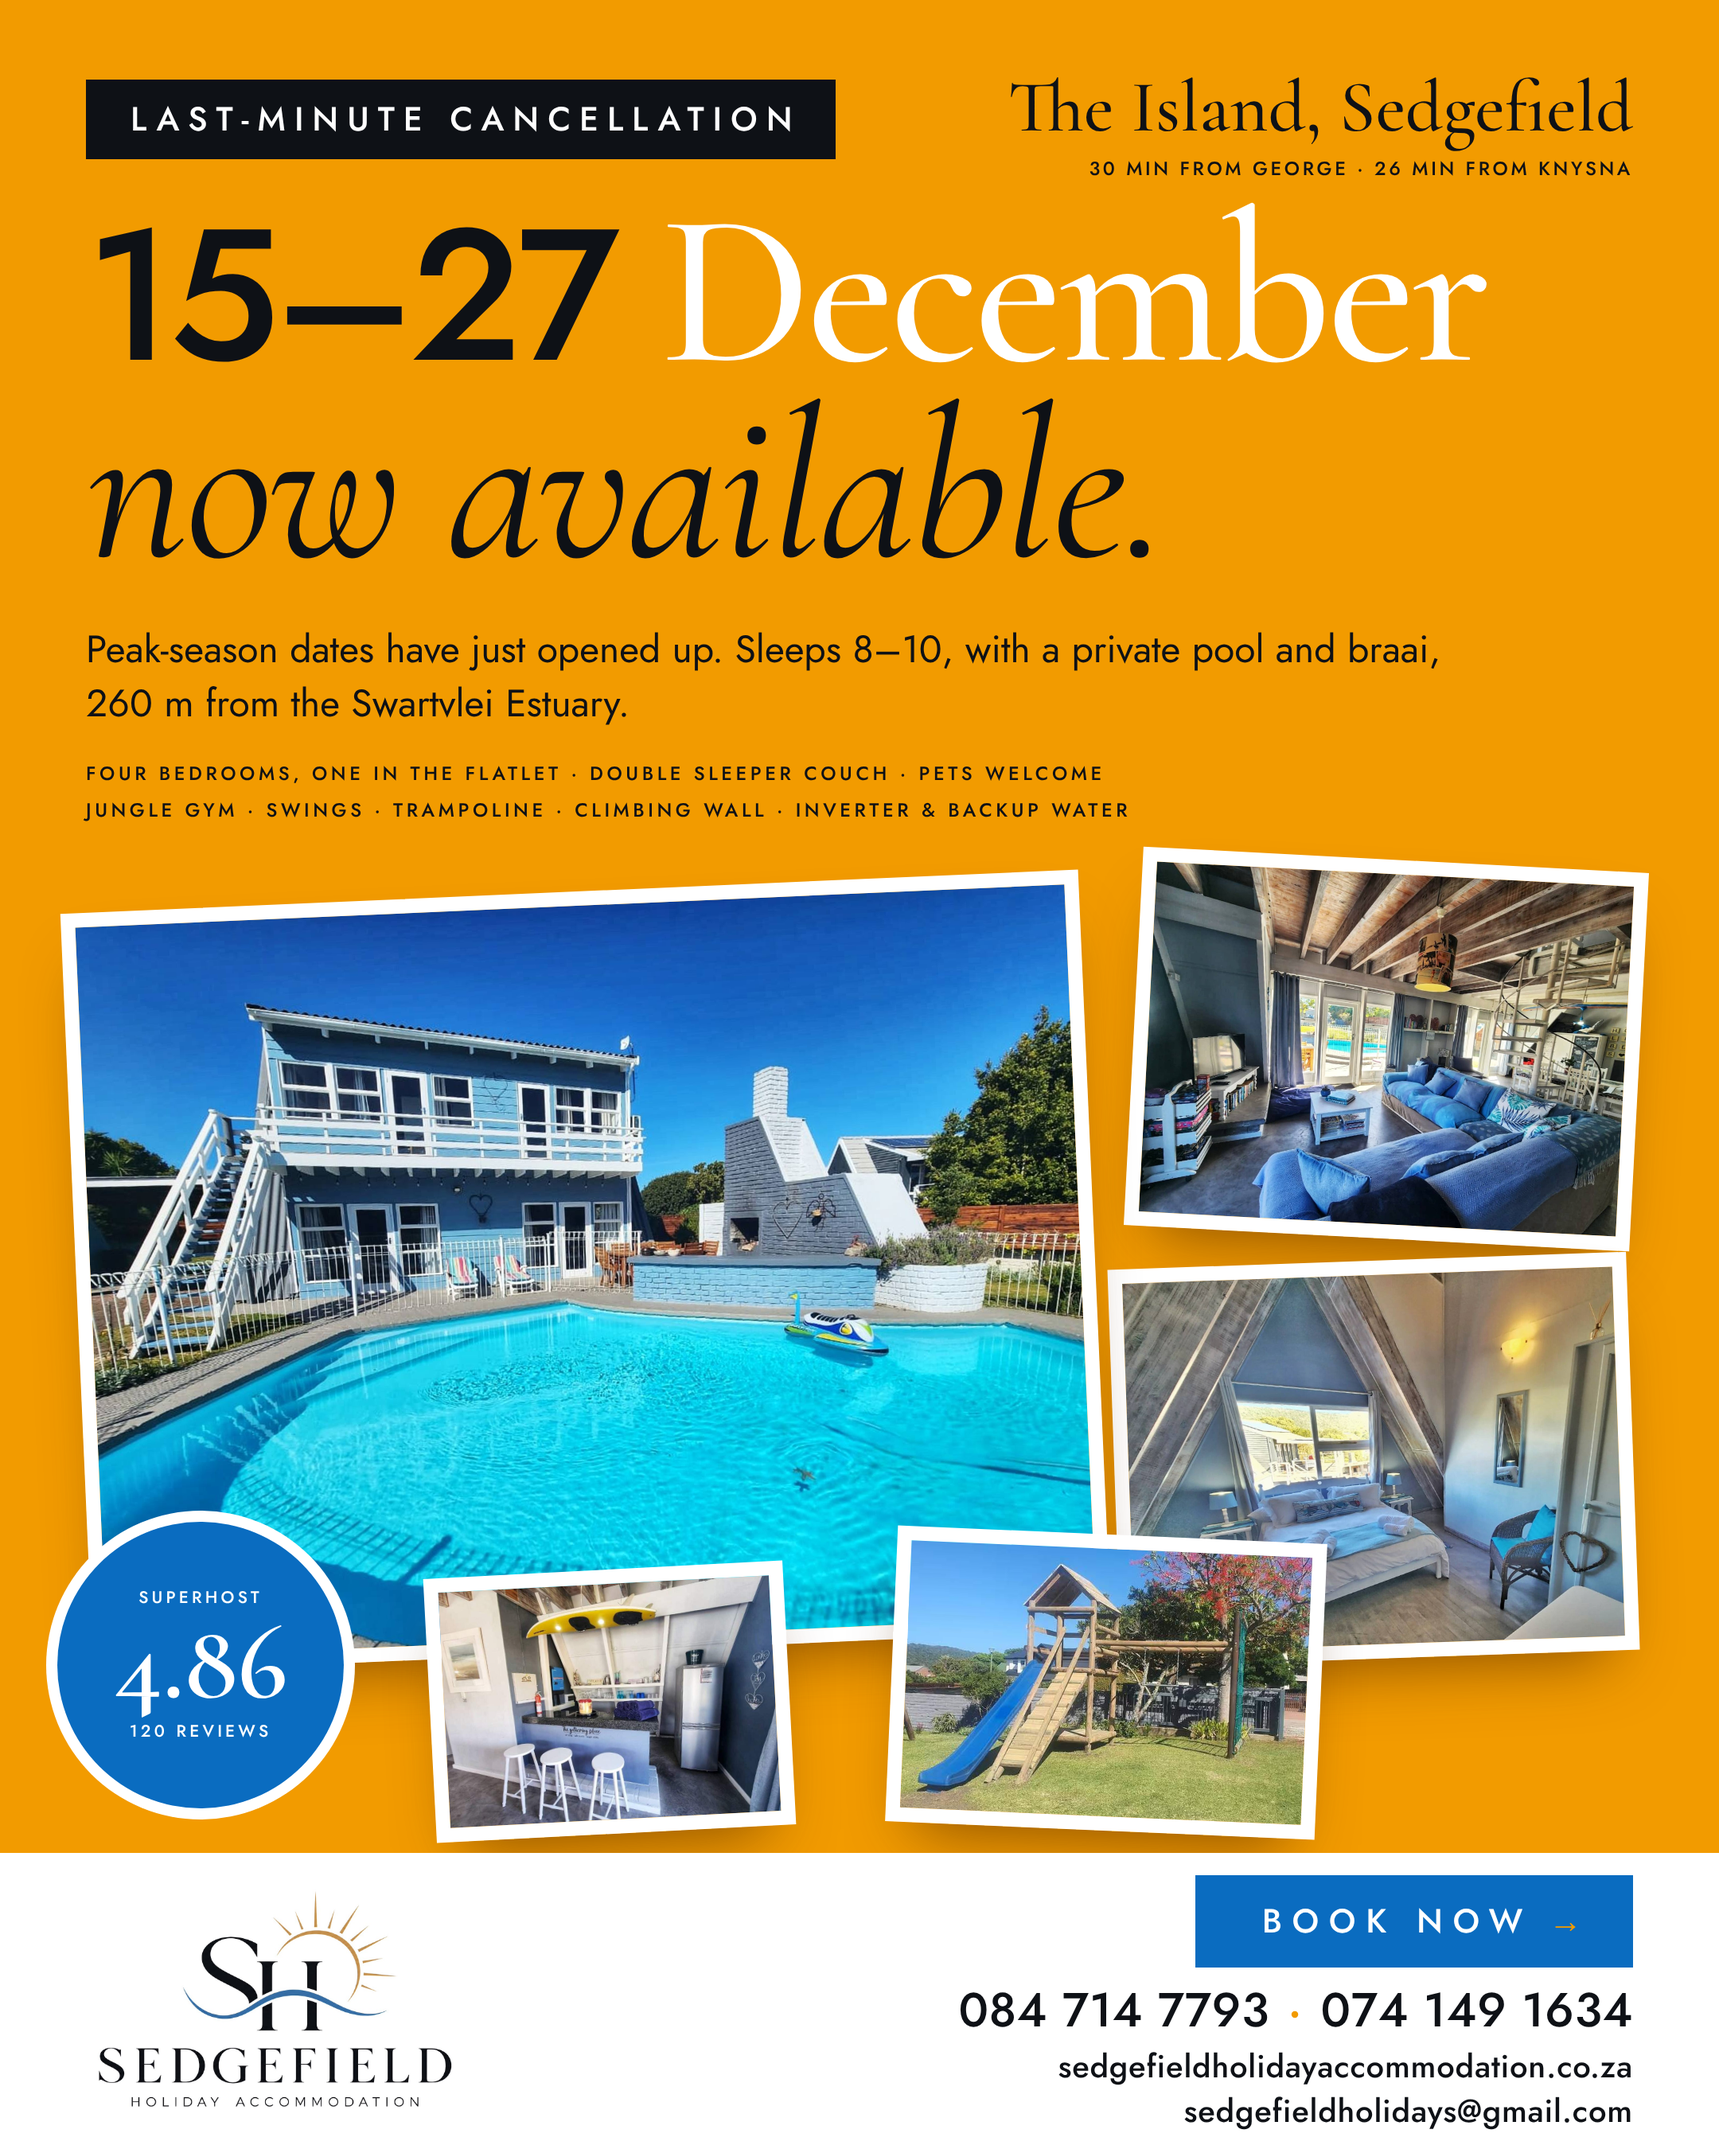
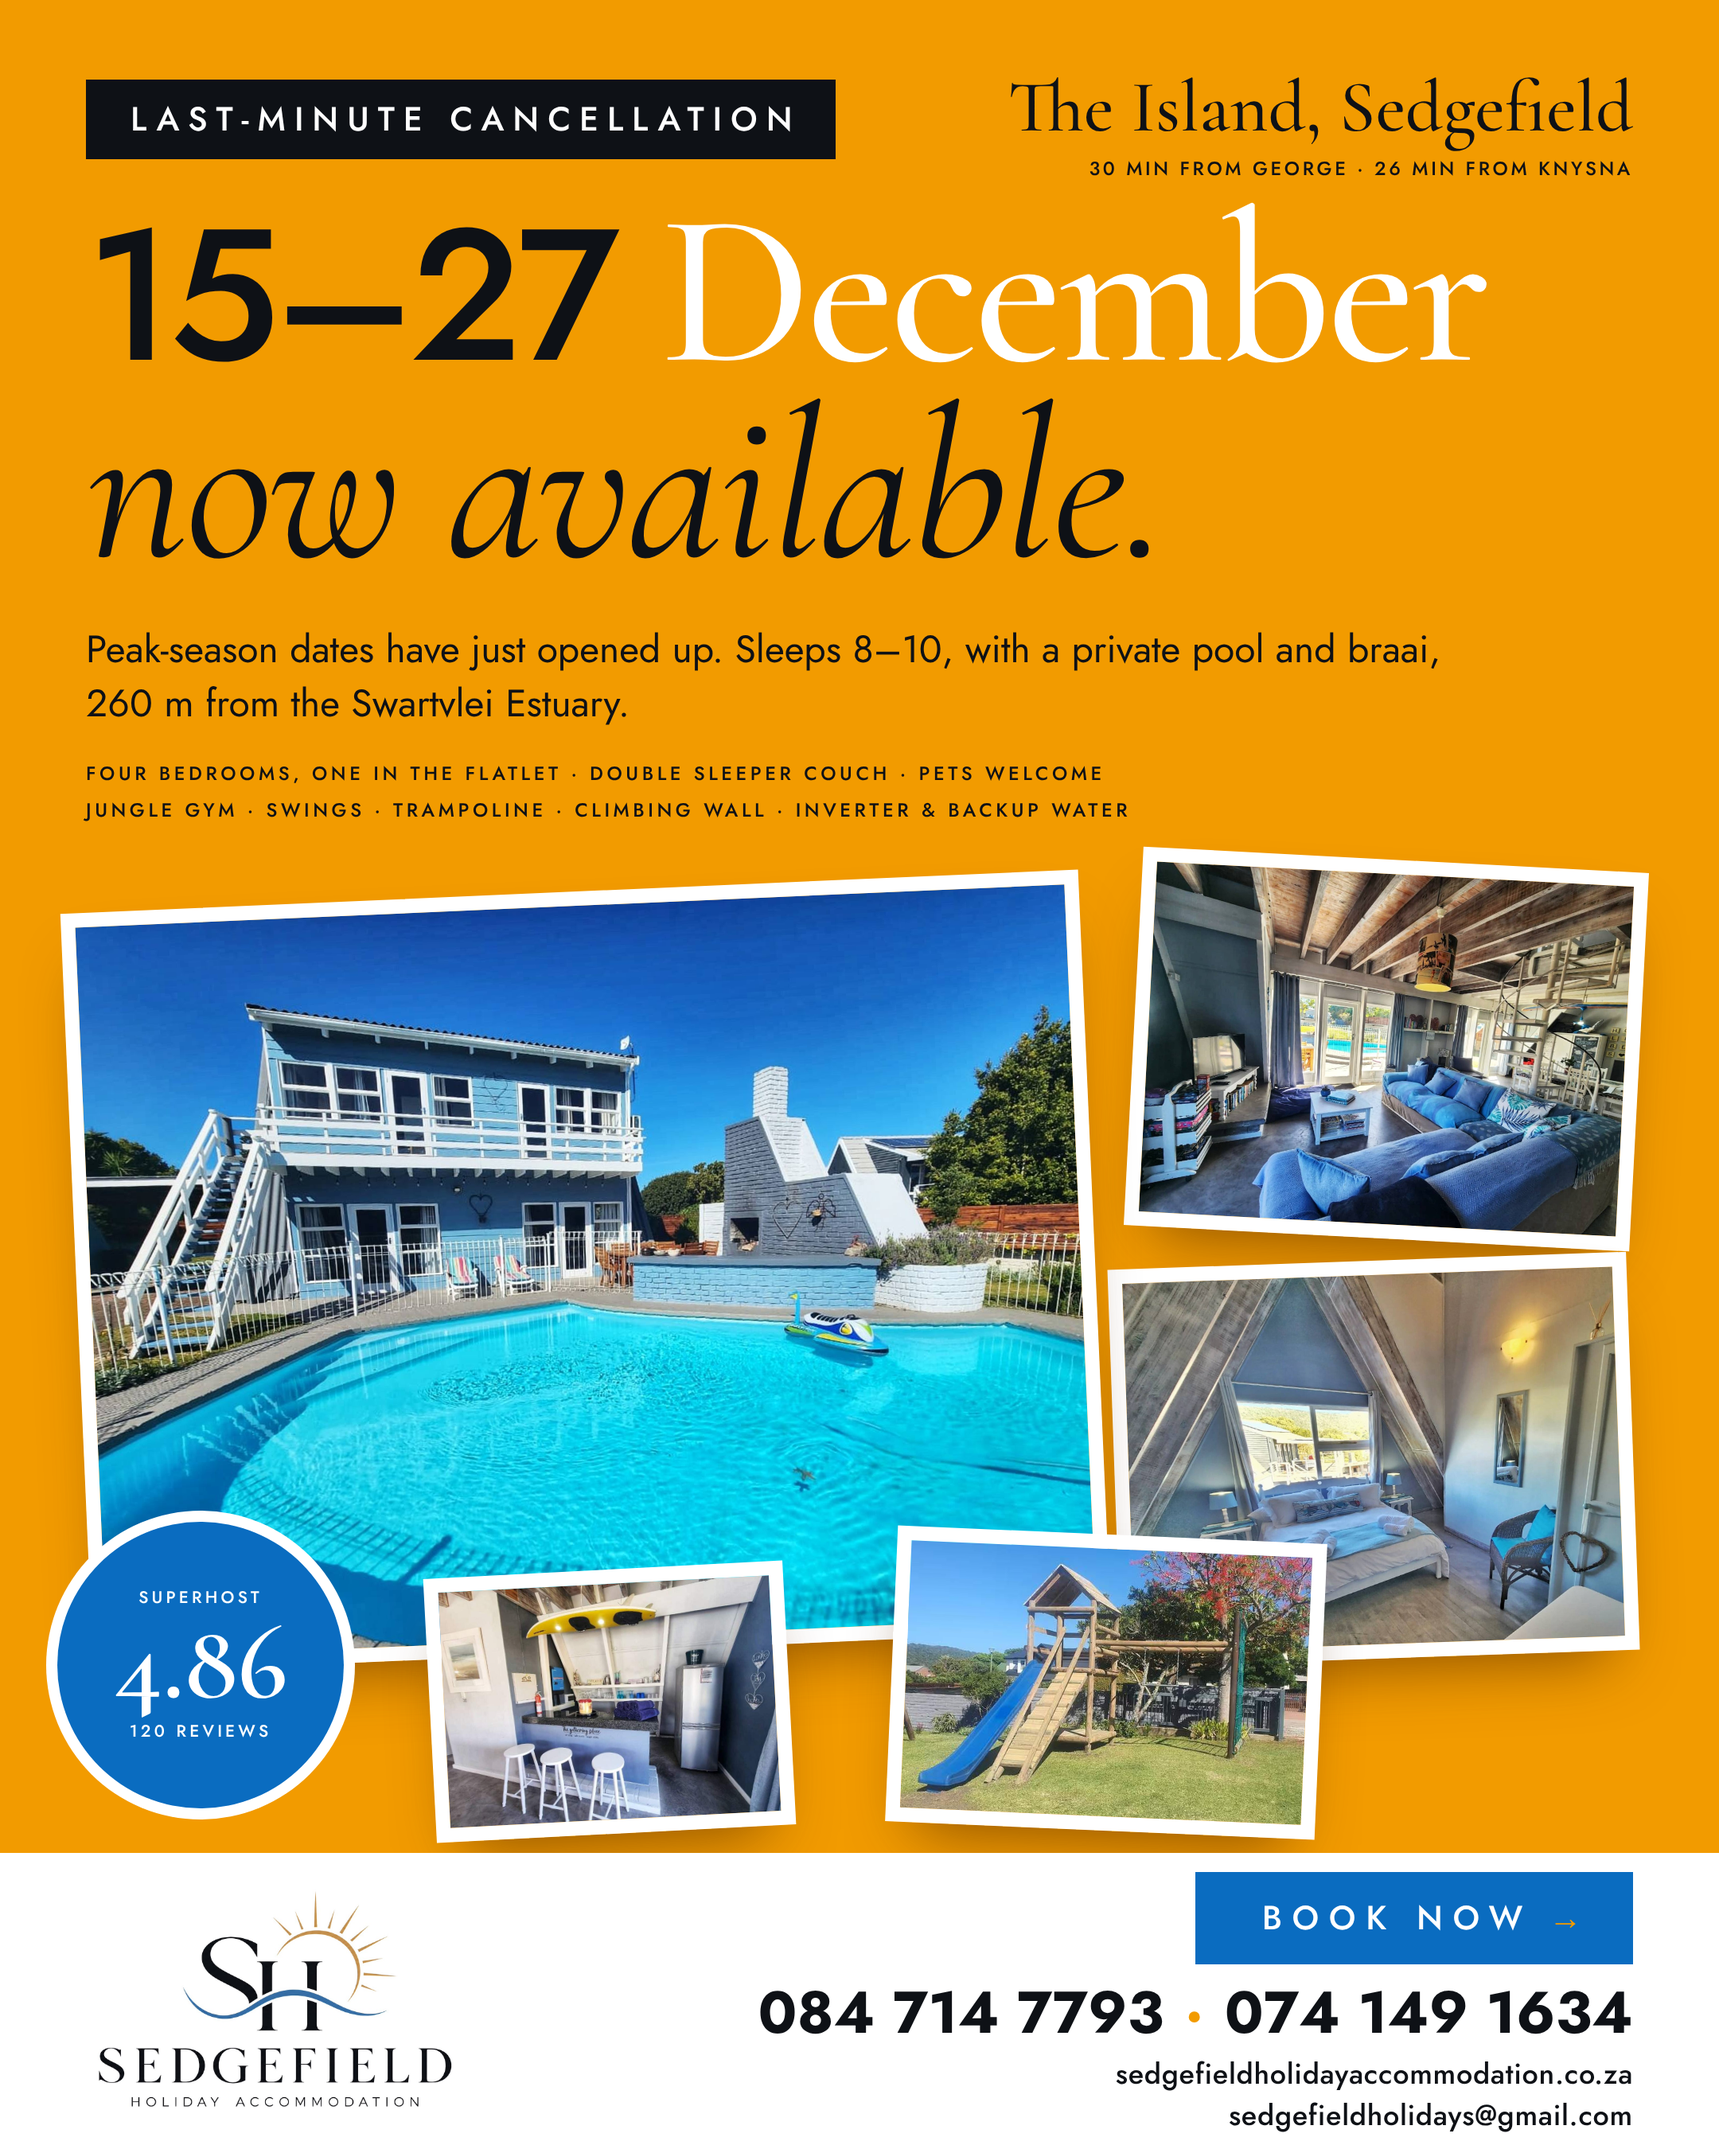
Adverts: cell numbers in bold at a larger size
Claude-Session: https://claude.ai/code/session_018nYbKAdgBCf6cy6bucxAdr

Changed region(s): [[0.4343, 0.8711, 0.9616, 0.9956]]

diff --git a/adverts/book-now/design-2-pool-photo-strip.html b/adverts/book-now/design-2-pool-photo-strip.html
@@ -7,6 +7,7 @@
 @font-face{font-family:Cormorant;font-weight:400;font-style:italic;src:url(assets/cormorant-garamond-latin-400-italic.woff2)}
 @font-face{font-family:Jost;font-weight:400;src:url(assets/jost-latin-400-normal.woff2)}
 @font-face{font-family:Jost;font-weight:500;src:url(assets/jost-latin-500-normal.woff2)}
+@font-face{font-family:Jost;font-weight:700;src:url(assets/jost-latin-700-normal.woff2)}
 :root{--ink:#0E1116;--blue:#0A6CC0;--orange:#F29B00}
 *{box-sizing:border-box;margin:0;padding:0}
 body{background:#fff;color:var(--ink);font-family:Jost,Arial,sans-serif}
@@ -31,23 +32,23 @@ body{background:#fff;color:var(--ink);font-family:Jost,Arial,sans-serif}
 .tag{display:inline-block;background:var(--orange);color:var(--ink);font-size:21px;letter-spacing:.26em;padding:15px 20px 14px 26px;margin-bottom:24px}
 .kicker{display:flex;align-items:center;gap:14px;margin-bottom:18px;text-shadow:0 1px 10px #05386a80}
 .kicker i{display:block;width:44px;height:3px;background:var(--orange)}
-h1{font:500 132px/.9 Cormorant,Georgia,serif;letter-spacing:-.02em;white-space:nowrap;text-shadow:0 2px 30px #05386a55}
+h1{font:500 124px/.9 Cormorant,Georgia,serif;letter-spacing:-.02em;white-space:nowrap;text-shadow:0 2px 30px #05386a55}
 h1 span{font:500 .86em/1 Jost,Arial,sans-serif;letter-spacing:-.03em}
 h1 em{font-style:italic;font-weight:400;color:var(--orange);letter-spacing:-.01em}
 .intro{font:400 23px/1.42 Jost;margin-top:26px;width:560px;text-wrap:balance}
 .feat{margin-top:18px;width:560px;white-space:nowrap;letter-spacing:.17em;font-size:12px;letter-spacing:.2em;line-height:2;color:#ffffffd0}
-.btn{display:block;background:var(--orange);color:var(--ink);font:500 22px/1 Jost;letter-spacing:.3em;text-transform:uppercase;padding:21px 32px 20px 42px}
+.btn{display:block;background:var(--orange);color:var(--ink);font:500 22px/1 Jost;letter-spacing:.3em;text-transform:uppercase;padding:17px 32px 16px 42px}
 .btn b{font-weight:500;margin-left:10px;letter-spacing:0}
-.tel{margin-top:18px;font:500 30px/1 Jost;letter-spacing:.01em}
-.web{margin-top:9px;font:500 20px/1 Jost;letter-spacing:.02em}
+.tel{margin-top:18px;font:700 40px/1 Jost;letter-spacing:0}
+.web{margin-top:7px;font:500 18px/1 Jost;letter-spacing:.02em}
 .tel + .web{margin-top:12px}
 .contact + .contact{margin-top:10px;font:400 17px/1 Jost;letter-spacing:.04em;text-transform:none;color:#ffffffe0}
 
-.card{background:#fff;color:var(--ink);margin-top:8px;padding:13px 8px 14px}
+.card{background:#fff;color:var(--ink);margin-top:7px;padding:10px 8px 10px}
 .card .tel{margin-top:0}
 .tel i{font-style:normal;color:var(--orange);margin:0 2px}
-.tel + .tel{margin-top:8px}
-.cta{position:absolute;right:54px;top:912px;width:400px;white-space:nowrap;color:#fff;text-align:center}
+.tel + .tel{margin-top:6px}
+.cta{position:absolute;right:54px;top:904px;width:400px;white-space:nowrap;color:#fff;text-align:center}
 .strip{position:absolute;left:0;right:0;bottom:0;height:206px;display:flex;gap:6px;border-top:6px solid #fff;background:#fff}
 .strip i{flex:1;background:center/cover}
 </style></head>

diff --git a/adverts/book-now/design-1-pool-circles.html b/adverts/book-now/design-1-pool-circles.html
@@ -7,6 +7,7 @@
 @font-face{font-family:Cormorant;font-weight:400;font-style:italic;src:url(assets/cormorant-garamond-latin-400-italic.woff2)}
 @font-face{font-family:Jost;font-weight:400;src:url(assets/jost-latin-400-normal.woff2)}
 @font-face{font-family:Jost;font-weight:500;src:url(assets/jost-latin-500-normal.woff2)}
+@font-face{font-family:Jost;font-weight:700;src:url(assets/jost-latin-700-normal.woff2)}
 :root{--ink:#0E1116;--blue:#0A6CC0;--orange:#F29B00}
 *{box-sizing:border-box;margin:0;padding:0}
 body{background:#fff;color:var(--ink);font-family:Jost,Arial,sans-serif}
@@ -28,7 +29,7 @@ body{background:#fff;color:var(--ink);font-family:Jost,Arial,sans-serif}
 
 
 .copy{position:absolute;left:54px;top:606px;color:#fff}
-.card{background:#fff;color:var(--ink);display:block;width:max-content;margin-top:12px;padding:17px 24px 18px}
+.card{background:#fff;color:var(--ink);display:block;width:max-content;margin-top:10px;padding:15px 22px 16px}
 .card .tel{margin-top:0}
 .tel i{font-style:normal;color:var(--orange);margin:0 2px}
 .tag{display:inline-block;background:var(--orange);color:var(--ink);font-size:21px;letter-spacing:.26em;padding:15px 20px 14px 26px;margin-bottom:24px}
@@ -41,13 +42,13 @@ h1 em{font-style:italic;font-weight:400;color:var(--orange);letter-spacing:-.01e
 .feat{margin-top:20px;width:640px;white-space:nowrap;font-size:12px;letter-spacing:.2em;line-height:2;color:#ffffffd0}
 .btn{display:inline-block;margin-top:22px;background:var(--orange);color:var(--ink);font:500 22px/1 Jost;letter-spacing:.3em;text-transform:uppercase;padding:20px 32px 19px 42px}
 .btn b{font-weight:500;margin-left:10px;letter-spacing:0}
-.tel{margin-top:18px;font:500 30px/1 Jost;letter-spacing:.01em}
+.tel{margin-top:18px;font:700 37px/1 Jost;letter-spacing:0}
 .web{margin-top:10px;font:500 20px/1 Jost;letter-spacing:.02em}
 .tel + .web{margin-top:12px}
 
 .c{position:absolute;border-radius:50%;border:7px solid #fff;background:center/cover;box-shadow:0 20px 40px -16px #03244880}
 .c1{width:286px;height:286px;left:716px;top:940px;background-image:url(assets/living.jpg);background-position:62% 60%}
-.c2{width:190px;height:190px;left:574px;top:1118px;background-image:url(assets/bedroom.jpg);background-position:center 62%}
+.c2{width:176px;height:176px;left:676px;top:1150px;background-image:url(assets/bedroom.jpg);background-position:center 62%}
 .c3{width:150px;height:150px;left:872px;top:1172px;background-image:url(assets/sunset.jpg);background-position:70% 80%;background-size:190%}
 </style></head>
 <body>

diff --git a/adverts/book-now/design-4-collage-orange.html b/adverts/book-now/design-4-collage-orange.html
@@ -7,6 +7,7 @@
 @font-face{font-family:Cormorant;font-weight:400;font-style:italic;src:url(assets/cormorant-garamond-latin-400-italic.woff2)}
 @font-face{font-family:Jost;font-weight:400;src:url(assets/jost-latin-400-normal.woff2)}
 @font-face{font-family:Jost;font-weight:500;src:url(assets/jost-latin-500-normal.woff2)}
+@font-face{font-family:Jost;font-weight:700;src:url(assets/jost-latin-700-normal.woff2)}
 :root{--ink:#0E1116;--blue:#0A6CC0;--orange:#F29B00}
 *{box-sizing:border-box;margin:0;padding:0}
 body{background:#fff;color:var(--ink);font-family:Jost,Arial,sans-serif}
@@ -39,8 +40,8 @@ h1 em{font-style:italic;font-weight:400;color:var(--ink);letter-spacing:-.01em}
 .cta{text-align:right}
 .btn{display:inline-block;background:var(--blue);color:#fff;font:500 21px/1 Jost;letter-spacing:.3em;text-transform:uppercase;padding:19px 32px 18px 42px}
 .btn b{font-weight:500;margin-left:10px;letter-spacing:0;color:var(--orange)}
-.tel{font:500 30px/1 Jost;letter-spacing:.01em;margin-top:12px;color:var(--ink)}
-.web{font:500 20px/1 Jost;letter-spacing:.02em;margin-top:8px;color:var(--ink)}
+.tel{font:700 37px/1 Jost;letter-spacing:0;margin-top:12px;color:var(--ink)}
+.web{font:500 18px/1 Jost;letter-spacing:.02em;margin-top:8px;color:var(--ink)}
 .tel i{font-style:normal;color:var(--orange);margin:0 2px}
 .tel + .web{margin-top:11px}
 </style></head>

diff --git a/adverts/book-now/design-5-collage-blue.html b/adverts/book-now/design-5-collage-blue.html
@@ -7,6 +7,7 @@
 @font-face{font-family:Cormorant;font-weight:400;font-style:italic;src:url(assets/cormorant-garamond-latin-400-italic.woff2)}
 @font-face{font-family:Jost;font-weight:400;src:url(assets/jost-latin-400-normal.woff2)}
 @font-face{font-family:Jost;font-weight:500;src:url(assets/jost-latin-500-normal.woff2)}
+@font-face{font-family:Jost;font-weight:700;src:url(assets/jost-latin-700-normal.woff2)}
 :root{--ink:#0E1116;--blue:#0A6CC0;--orange:#F29B00}
 *{box-sizing:border-box;margin:0;padding:0}
 body{background:#fff;color:var(--ink);font-family:Jost,Arial,sans-serif}
@@ -39,8 +40,8 @@ h1 em{font-style:italic;font-weight:400;color:var(--orange);letter-spacing:-.01e
 .cta{text-align:right}
 .btn{display:inline-block;background:var(--orange);color:var(--ink);font:500 21px/1 Jost;letter-spacing:.3em;text-transform:uppercase;padding:19px 32px 18px 42px}
 .btn b{font-weight:500;margin-left:10px;letter-spacing:0}
-.tel{font:500 30px/1 Jost;letter-spacing:.01em;margin-top:12px;color:var(--ink)}
-.web{font:500 20px/1 Jost;letter-spacing:.02em;margin-top:8px;color:var(--ink)}
+.tel{font:700 37px/1 Jost;letter-spacing:0;margin-top:12px;color:var(--ink)}
+.web{font:500 18px/1 Jost;letter-spacing:.02em;margin-top:8px;color:var(--ink)}
 .tel i{font-style:normal;color:var(--orange);margin:0 2px}
 .tel + .web{margin-top:11px}
 </style></head>

diff --git a/adverts/book-now/design-3-arches.html b/adverts/book-now/design-3-arches.html
@@ -7,6 +7,7 @@
 @font-face{font-family:Cormorant;font-weight:400;font-style:italic;src:url(assets/cormorant-garamond-latin-400-italic.woff2)}
 @font-face{font-family:Jost;font-weight:400;src:url(assets/jost-latin-400-normal.woff2)}
 @font-face{font-family:Jost;font-weight:500;src:url(assets/jost-latin-500-normal.woff2)}
+@font-face{font-family:Jost;font-weight:700;src:url(assets/jost-latin-700-normal.woff2)}
 :root{--ink:#0E1116;--blue:#0A6CC0;--orange:#F29B00}
 *{box-sizing:border-box;margin:0;padding:0}
 body{background:#fff;color:var(--ink);font-family:Jost,Arial,sans-serif}
@@ -42,7 +43,7 @@ h1 em{font-style:italic;font-weight:400;color:var(--orange);letter-spacing:-.01e
 .cta{text-align:right}
 .btn{display:inline-block;background:var(--orange);color:var(--ink);font:500 22px/1 Jost;letter-spacing:.3em;text-transform:uppercase;padding:21px 34px 20px 44px}
 .btn b{font-weight:500;margin-left:10px;letter-spacing:0}
-.tel{font:500 30px/1 Jost;letter-spacing:.01em;margin-top:14px;color:var(--ink)}
+.tel{font:700 38px/1 Jost;letter-spacing:0;margin-top:14px;color:var(--ink)}
 .web{font:500 20px/1 Jost;letter-spacing:.02em;margin-top:8px;color:var(--ink)}
 .tel i{font-style:normal;color:var(--orange);margin:0 2px}
 .tel + .web{margin-top:11px}
